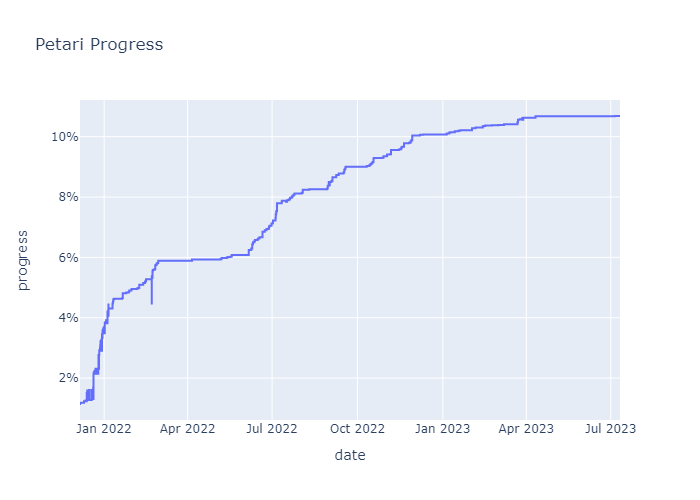
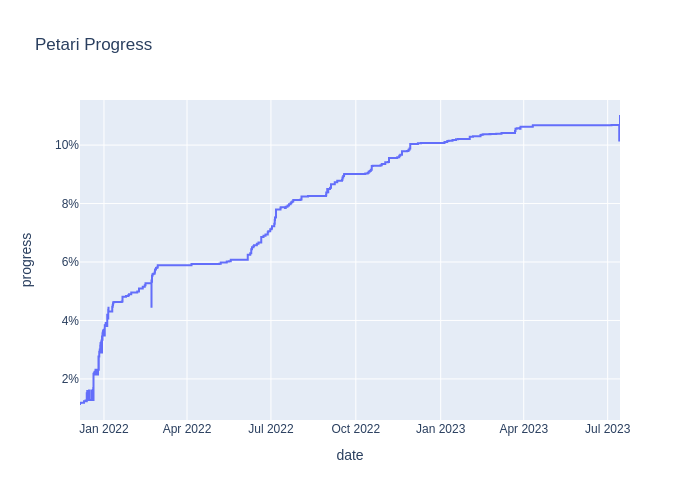
Update progress

diff --git a/docs/lib/Player/MarioActor.md b/docs/lib/Player/MarioActor.md
@@ -5,7 +5,7 @@
 | :white_check_mark: | Function is completed. 
 
 
-# 1 / 88 Completed -- (1.1363636363636365%)
+# 43 / 88 Completed -- (48.86363636363637%)
 # MarioActor.o
 | Symbol | Decompiled? |
 | ------------- | ------------- |
@@ -13,51 +13,51 @@
 | `getEuler__Q29JGeometry64TRotation3<Q29JGeometry38TMatrix34<Q29JGeometry13SMatrix34C<f>>>CFRQ29JGeometry8TVec3<f>` | :x: |
 | `__ct__10MarioActorFPCc` | :x: |
 | `__dt__10MarioActorFv` | :x: |
-| `init__10MarioActorFRC12JMapInfoIter` | :x: |
+| `init__10MarioActorFRC12JMapInfoIter` | :white_check_mark: |
 | `init2__10MarioActorFRCQ29JGeometry8TVec3<f>RCQ29JGeometry8TVec3<f>l` | :x: |
-| `initAfterPlacement__10MarioActorFv` | :x: |
-| `initAfterOpeningDemo__10MarioActorFv` | :x: |
-| `calcBaseFrontVec__10MarioActorFRCQ29JGeometry8TVec3<f>` | :x: |
-| `playSound__10MarioActorFPCcl` | :x: |
-| `changeAnimation__10MarioActorFPCcPCc` | :x: |
-| `changeAnimationNonStop__10MarioActorFPCc` | :x: |
-| `changeAnimationUpper__10MarioActorFPCc` | :x: |
-| `stopAnimation__10MarioActorFPCc` | :x: |
-| `isAnimationRun__10MarioActorCFPCc` | :x: |
-| `changeNullAnimation__10MarioActorFPCcSc` | :x: |
+| `initAfterPlacement__10MarioActorFv` | :white_check_mark: |
+| `initAfterOpeningDemo__10MarioActorFv` | :white_check_mark: |
+| `calcBaseFrontVec__10MarioActorFRCQ29JGeometry8TVec3<f>` | :white_check_mark: |
+| `playSound__10MarioActorFPCcl` | :white_check_mark: |
+| `changeAnimation__10MarioActorFPCcPCc` | :white_check_mark: |
+| `changeAnimationNonStop__10MarioActorFPCc` | :white_check_mark: |
+| `changeAnimationUpper__10MarioActorFPCc` | :white_check_mark: |
+| `stopAnimation__10MarioActorFPCc` | :white_check_mark: |
+| `isAnimationRun__10MarioActorCFPCc` | :white_check_mark: |
+| `changeNullAnimation__10MarioActorFPCcSc` | :white_check_mark: |
 | `clearNullAnimation__10MarioActorFSc` | :x: |
-| `isStopNullAnimation__10MarioActorCFv` | :x: |
-| `changeGameOverAnimation__10MarioActorFv` | :x: |
-| `getJointCtrl__10MarioActorCFPCc` | :x: |
+| `isStopNullAnimation__10MarioActorCFv` | :white_check_mark: |
+| `changeGameOverAnimation__10MarioActorFv` | :white_check_mark: |
+| `getJointCtrl__10MarioActorCFPCc` | :white_check_mark: |
 | `updateRotationInfo__10MarioActorFv` | :x: |
-| `exeWait__10MarioActorFv` | :x: |
-| `movement__10MarioActorFv` | :x: |
-| `control__10MarioActorFv` | :x: |
-| `control2__10MarioActorFv` | :x: |
-| `controlMain__10MarioActorFv` | :x: |
-| `updateBehavior__10MarioActorFv` | :x: |
-| `updateBindRatio__10MarioActorFv` | :x: |
-| `isInPunchTimerRange__10MarioActorCFv` | :x: |
-| `updatePunching__10MarioActorFv` | :x: |
-| `doRush__10MarioActorFv` | :x: |
-| `updateSwingTimer__10MarioActorFv` | :x: |
-| `updateSwingAction__10MarioActorFv` | :x: |
+| `exeWait__10MarioActorFv` | :white_check_mark: |
+| `movement__10MarioActorFv` | :white_check_mark: |
+| `control__10MarioActorFv` | :white_check_mark: |
+| `control2__10MarioActorFv` | :white_check_mark: |
+| `controlMain__10MarioActorFv` | :white_check_mark: |
+| `updateBehavior__10MarioActorFv` | :white_check_mark: |
+| `updateBindRatio__10MarioActorFv` | :white_check_mark: |
+| `isInPunchTimerRange__10MarioActorCFv` | :white_check_mark: |
+| `updatePunching__10MarioActorFv` | :white_check_mark: |
+| `doRush__10MarioActorFv` | :white_check_mark: |
+| `updateSwingTimer__10MarioActorFv` | :white_check_mark: |
+| `updateSwingAction__10MarioActorFv` | :white_check_mark: |
 | `checkClapCatchStart__10MarioActorFv` | :x: |
-| `updateRealMtx__10MarioActorFv` | :x: |
+| `updateRealMtx__10MarioActorFv` | :white_check_mark: |
 | `setUpperRotateY__10MarioActorFf` | :x: |
-| `decLife__10MarioActorFUs` | :x: |
-| `decLifeLarge__10MarioActorFv` | :x: |
-| `decLifeMiddle__10MarioActorFv` | :x: |
-| `decLifeSmall__10MarioActorFv` | :x: |
-| `resetWaterLife__10MarioActorFv` | :x: |
-| `updateLife__10MarioActorFv` | :x: |
-| `incLife__10MarioActorFUl` | :x: |
-| `changeMaxLife__10MarioActorFl` | :x: |
-| `doPressing__10MarioActorFv` | :x: |
-| `careMovingObject__10MarioActorFv` | :x: |
-| `doStun__10MarioActorFv` | :x: |
-| `scaleMtx__10MarioActorFPA4_f` | :x: |
-| `updateBaseScaleMtx__10MarioActorFv` | :x: |
+| `decLife__10MarioActorFUs` | :white_check_mark: |
+| `decLifeLarge__10MarioActorFv` | :white_check_mark: |
+| `decLifeMiddle__10MarioActorFv` | :white_check_mark: |
+| `decLifeSmall__10MarioActorFv` | :white_check_mark: |
+| `resetWaterLife__10MarioActorFv` | :white_check_mark: |
+| `updateLife__10MarioActorFv` | :white_check_mark: |
+| `incLife__10MarioActorFUl` | :white_check_mark: |
+| `changeMaxLife__10MarioActorFl` | :white_check_mark: |
+| `doPressing__10MarioActorFv` | :white_check_mark: |
+| `careMovingObject__10MarioActorFv` | :white_check_mark: |
+| `doStun__10MarioActorFv` | :white_check_mark: |
+| `scaleMtx__10MarioActorFPA4_f` | :white_check_mark: |
+| `updateBaseScaleMtx__10MarioActorFv` | :white_check_mark: |
 | `getRealMtx__10MarioActorCFPA4_fPCc` | :x: |
 | `getRealPos__10MarioActorCFPCcPQ29JGeometry8TVec3<f>` | :x: |
 | `getGlobalJointMtx__10MarioActorFPCc` | :x: |
@@ -68,7 +68,7 @@
 | `setBlendMtxTimer__10MarioActorFUs` | :x: |
 | `getGroundPos__10MarioActorCFPQ29JGeometry8TVec3<f>` | :x: |
 | `getShadowPos__10MarioActorCFv` | :x: |
-| `isTurning__10MarioActorCFv` | :x: |
+| `isTurning__10MarioActorCFv` | :white_check_mark: |
 | `isJumping__10MarioActorCFv` | :x: |
 | `isJumpRising__10MarioActorCFv` | :x: |
 | `isPunching__10MarioActorCFv` | :x: |
@@ -78,7 +78,7 @@
 | `isStaggering__10MarioActorCFv` | :x: |
 | `isSleeping__10MarioActorCFv` | :x: |
 | `isRefuseTalk__10MarioActorCFv` | :x: |
-| `isDebugMode__10MarioActorCFv` | :x: |
+| `isDebugMode__10MarioActorCFv` | :white_check_mark: |
 | `jumpHop__10MarioActorFv` | :x: |
 | `calcCenterPos__10MarioActorFv` | :x: |
 | `calcHeadPos__10MarioActorFv` | :x: |

diff --git a/docs/lib/Player.md b/docs/lib/Player.md
@@ -16,7 +16,7 @@
 | [JetTurtleShadow.o](https://github.com/shibbo/Petari/blob/master/docs/lib/Player/JetTurtleShadow.md) | 0.0% | 0 / 6 | 0.0% | :x: 
 | [MarineSnow.o](https://github.com/shibbo/Petari/blob/master/docs/lib/Player/MarineSnow.md) | 0.0% | 0 / 4 | 0.0% | :x: 
 | [Mario.o](https://github.com/shibbo/Petari/blob/master/docs/lib/Player/Mario.md) | 0.0% | 0 / 55 | 0.0% | :x: 
-| [MarioActor.o](https://github.com/shibbo/Petari/blob/master/docs/lib/Player/MarioActor.md) | 0.5966239813736903% | 1 / 88 | 1.1363636363636365% | :eight_pointed_black_star: 
+| [MarioActor.o](https://github.com/shibbo/Petari/blob/master/docs/lib/Player/MarioActor.md) | 44.965075669383005% | 43 / 88 | 48.86363636363637% | :eight_pointed_black_star: 
 | [MarioActorDraw.o](https://github.com/shibbo/Petari/blob/master/docs/lib/Player/MarioActorDraw.md) | 0.0% | 0 / 36 | 0.0% | :x: 
 | [MarioActorPunch.o](https://github.com/shibbo/Petari/blob/master/docs/lib/Player/MarioActorPunch.md) | 0.0% | 0 / 10 | 0.0% | :x: 
 | [MarioActorCamera.o](https://github.com/shibbo/Petari/blob/master/docs/lib/Player/MarioActorCamera.md) | 0.0% | 0 / 15 | 0.0% | :x: 
@@ -59,7 +59,7 @@
 | [MarioFlow.o](https://github.com/shibbo/Petari/blob/master/docs/lib/Player/MarioFlow.md) | 0.0% | 0 / 6 | 0.0% | :x: 
 | [MarioFoo.o](https://github.com/shibbo/Petari/blob/master/docs/lib/Player/MarioFoo.md) | 0.0% | 0 / 18 | 0.0% | :x: 
 | [MarioHolder.o](https://github.com/shibbo/Petari/blob/master/docs/lib/Player/MarioHolder.md) | 0.0% | 0 / 5 | 0.0% | :x: 
-| [MarioInit.o](https://github.com/shibbo/Petari/blob/master/docs/lib/Player/MarioInit.md) | 0.0% | 0 / 1 | 0.0% | :x: 
+| [MarioInit.o](https://github.com/shibbo/Petari/blob/master/docs/lib/Player/MarioInit.md) | 100.0% | 1 / 1 | 100.0% | :white_check_mark: 
 | [MarioJump.o](https://github.com/shibbo/Petari/blob/master/docs/lib/Player/MarioJump.md) | 0.0% | 0 / 45 | 0.0% | :x: 
 | [MarioMessenger.o](https://github.com/shibbo/Petari/blob/master/docs/lib/Player/MarioMessenger.md) | 0.0% | 0 / 4 | 0.0% | :x: 
 | [MarioModule.o](https://github.com/shibbo/Petari/blob/master/docs/lib/Player/MarioModule.md) | 0.0% | 0 / 90 | 0.0% | :x: 
@@ -94,7 +94,7 @@
 | [MarioStep.o](https://github.com/shibbo/Petari/blob/master/docs/lib/Player/MarioStep.md) | 0.0% | 0 / 7 | 0.0% | :x: 
 | [MarioBump.o](https://github.com/shibbo/Petari/blob/master/docs/lib/Player/MarioBump.md) | 0.0% | 0 / 7 | 0.0% | :x: 
 | [MarioEnforce.o](https://github.com/shibbo/Petari/blob/master/docs/lib/Player/MarioEnforce.md) | 0.0% | 0 / 22 | 0.0% | :x: 
-| [MarioTask.o](https://github.com/shibbo/Petari/blob/master/docs/lib/Player/MarioTask.md) | 0.0% | 0 / 20 | 0.0% | :x: 
+| [MarioTask.o](https://github.com/shibbo/Petari/blob/master/docs/lib/Player/MarioTask.md) | 1.9428571428571426% | 1 / 20 | 5.0% | :eight_pointed_black_star: 
 | [MarioTeresa.o](https://github.com/shibbo/Petari/blob/master/docs/lib/Player/MarioTeresa.md) | 0.0% | 0 / 32 | 0.0% | :x: 
 | [MarioMagic.o](https://github.com/shibbo/Petari/blob/master/docs/lib/Player/MarioMagic.md) | 0.0% | 0 / 7 | 0.0% | :x: 
 | [MarioWarp.o](https://github.com/shibbo/Petari/blob/master/docs/lib/Player/MarioWarp.md) | 0.0% | 0 / 12 | 0.0% | :x: 

diff --git a/docs/PROGRESS.md b/docs/PROGRESS.md
@@ -10,13 +10,13 @@
 | [Enemy](https://github.com/shibbo/Petari/blob/master/docs/lib/Enemy.md) | 1.187873435931035% |
 | [GameAudio](https://github.com/shibbo/Petari/blob/master/docs/lib/GameAudio.md) | 0.0% |
 | [Gravity](https://github.com/shibbo/Petari/blob/master/docs/lib/Gravity.md) | 56.816792337477075% |
-| [LiveActor](https://github.com/shibbo/Petari/blob/master/docs/lib/LiveActor.md) | 39.898570769940065% |
-| [Map](https://github.com/shibbo/Petari/blob/master/docs/lib/Map.md) | 15.921118600635062% |
-| [MapObj](https://github.com/shibbo/Petari/blob/master/docs/lib/MapObj.md) | 23.59306909068217% |
+| [LiveActor](https://github.com/shibbo/Petari/blob/master/docs/lib/LiveActor.md) | 41.44767173812817% |
+| [Map](https://github.com/shibbo/Petari/blob/master/docs/lib/Map.md) | 16.35006406328338% |
+| [MapObj](https://github.com/shibbo/Petari/blob/master/docs/lib/MapObj.md) | 24.774568638259368% |
 | [NameObj](https://github.com/shibbo/Petari/blob/master/docs/lib/NameObj.md) | 30.427688079697695% |
 | [NPC](https://github.com/shibbo/Petari/blob/master/docs/lib/NPC.md) | 2.155878467635403% |
 | [NWC24](https://github.com/shibbo/Petari/blob/master/docs/lib/NWC24.md) | 0.0% |
-| [Player](https://github.com/shibbo/Petari/blob/master/docs/lib/Player.md) | 0.14184156212575486% |
+| [Player](https://github.com/shibbo/Petari/blob/master/docs/lib/Player.md) | 2.8674078666859186% |
 | [RhythmLib](https://github.com/shibbo/Petari/blob/master/docs/lib/RhythmLib.md) | 1.2661566868900025% |
 | [Ride](https://github.com/shibbo/Petari/blob/master/docs/lib/Ride.md) | 0.0% |
 | [Scene](https://github.com/shibbo/Petari/blob/master/docs/lib/Scene.md) | 12.230081906180192% |

diff --git a/docs/lib/Player/MarioTask.md b/docs/lib/Player/MarioTask.md
@@ -5,14 +5,14 @@
 | :white_check_mark: | Function is completed. 
 
 
-# 0 / 20 Completed -- (0.0%)
+# 1 / 20 Completed -- (5.0%)
 # MarioTask.o
 | Symbol | Decompiled? |
 | ------------- | ------------- |
 | `delTask__5MarioFP15MarioModuleTask` | :x: |
 | `execTask__5MarioFv` | :x: |
 | `drawTask__5MarioCFv` | :x: |
-| `initTask__5MarioFv` | :x: |
+| `initTask__5MarioFv` | :white_check_mark: |
 | `isActiveTask__5MarioFM5MarioFPCvPvUl_b` | :x: |
 | `isActiveTaskID__5MarioFUl` | :x: |
 | `pushTask__5MarioFM5MarioFPCvPvUl_bUl` | :x: |

diff --git a/docs/lib/Player/MarioInit.md b/docs/lib/Player/MarioInit.md
@@ -5,8 +5,8 @@
 | :white_check_mark: | Function is completed. 
 
 
-# 0 / 1 Completed -- (0.0%)
+# 1 / 1 Completed -- (100.0%)
 # MarioInit.o
 | Symbol | Decompiled? |
 | ------------- | ------------- |
-| `initMember__5MarioFv` | :x: |
+| `initMember__5MarioFv` | :white_check_mark: |
